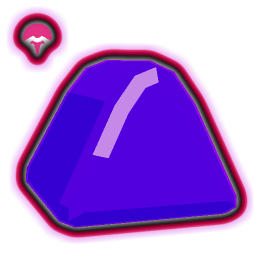
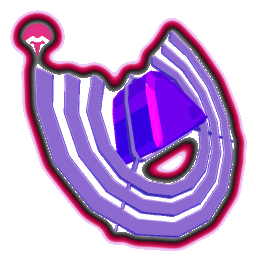
Prep for update release: 3.5.0

diff --git a/TinkersSatchel.cs b/TinkersSatchel.cs
@@ -20,7 +20,7 @@ namespace ThinkInvisible.TinkersSatchel {
     [R2APISubmoduleDependency(nameof(ItemAPI), nameof(LanguageAPI), nameof(PrefabAPI), nameof(RecalculateStatsAPI), nameof(DirectorAPI), nameof(DeployableAPI), nameof(DamageAPI))]
     [NetworkCompatibility(CompatibilityLevel.EveryoneMustHaveMod, VersionStrictness.EveryoneNeedSameModVersion)]
     public class TinkersSatchelPlugin:BaseUnityPlugin {
-        public const string ModVer = "3.4.1";
+        public const string ModVer = "3.5.0";
         public const string ModName = "TinkersSatchel";
         public const string ModGuid = "com.ThinkInvisible.TinkersSatchel";
 

diff --git a/ModMeta/README.md b/ModMeta/README.md
@@ -104,7 +104,7 @@ Short summaries are provided below. For a full description of each item, see: ht
 		<tr>
 			<td><img src="https://github.com/ThinkInvis/RoR2-TinkersSatchel/blob/master/ModMeta/Assets/goldenGearIcon.png?raw=true" width=128></td>
 			<td>
-				<b>Armor Crystal</b><br>
+				<b>Chestplate</b><br>
 				Gain armor by hoarding money.
 			</td>
 		</tr>
@@ -332,8 +332,8 @@ Short summaries are provided below. For a full description of each item, see: ht
 		<tr>
 			<td><img src="https://github.com/ThinkInvis/RoR2-TinkersSatchel/blob/master/ModMeta/Assets/orderedArmorIcon.png?raw=true" width=128></td>
 			<td>
-				<b>Armor Prism</b> (T2)<br>
-				Gain massive armor by focusing your item build. Corrupts all Armor Crystals.
+				<b>Lens of Order</b> (T2)<br>
+				Gain massive armor by focusing your item build. Corrupts all Chestplates.
 			</td>
 		</tr>
 		<tr>
@@ -524,8 +524,8 @@ Short summaries are provided below. For a full description of each item, see: ht
 - ItemDisplayRule incompleteness:
 	- A few TkSat items have absent or incomplete ItemDisplayRules.
 	- Non-Survivor vanilla characters have no display rules for TkSat items.
-	- TkSat drones have no ItemDisplayRules for important vanilla items (Spare Drone Parts).
 - Most items need some effects & model polish in general.
+	- Chestplate texture has unintentional specularity in some areas.
 	- Broken drones are missing smoke/sparks effects.
 	- Cardboard Box alternate icon has not been updated to vanilla style like other icons as of v2.2.3.
 - Some class-specific item behaviors on Go-Faster Stripes are missing or placeholders.
@@ -536,6 +536,22 @@ Short summaries are provided below. For a full description of each item, see: ht
 
 The 5 latest updates are listed below. For a full changelog, see: https://github.com/ThinkInvis/RoR2-TinkersSatchel/blob/master/changelog.md
 (🌧: Involves an accepted GitHub Pull Request from the community. Thanks for your help!)
+
+**3.5.0**
+
+- Item Drones now support holding more than 1 item type.
+	- `public ItemIndex ItemDrone.ItemDroneWardPersist.index` is now obsolete and will have no effect.
+	- `public int ItemDrone.ItemDroneWardPersist.count` is now obsolete and will have no effect.
+	- Added `public int[] ItemDrone.ItemDroneWardPersist stacks {get; private set;}` (populated via `ItemCatalog.RequestItemStackArray()`).
+	- Added `public void ItemDrone.ItemDroneWardPersist.AddItems(ItemIndex ind, int count)`.
+- Added Spare Drone Parts IDRs to Item Drone and Bulwark Drone.
+- Item Drone now supports the Dronemeld mod (requires Dronemeld 1.3.0 or later).
+- Fixed bad armature/animation setup (extraneous 90-degree rotations) on Item Drone.
+- Renamed Armor Crystal to Chestplate and gave it a new model and lore.
+- Renamed Armor Prism to Lens of Order and improved its model.
+- Character models are now set to read/write enabled (stops some rare console spam).
+- For developers: NuGet config is now localized (building project no longer requires end-user modification of system or directory NuGet config).
+- Updated TILER2 dependency to 7.3.2.
 
 **3.4.1**
 
@@ -567,29 +583,3 @@ The 5 latest updates are listed below. For a full changelog, see: https://github
 - Updated TILER2 dependency to 7.2.1.
 	- Fixes Item Drone name modification showing item type only appearing for the host in multiplayer.
 	- Fixes a mostly harmless NRE after using Quantum Recombobulator.
-
-**3.3.0**
-
-- New content:
-	- Items:
-		- Fudge Dice (T2): Every 20 seconds, automatically succeed on a random roll.
-		- Celestial Gambit (Lunar): Gain an extra item from the teleporter... BUT the teleporter zone weakens you (50% reduced healing per stack, no jumping). <small>Strawb!!</small>
-		- Lemurian's Claw (Lunar Equipment): Give a target item drop to ALL characters. Enemies receive multiple, 1 per ally.
-		- Scavenger's Rucksack (Boss): Hold one extra equipment. Stand still to cycle through equipment slots. Rarely replaces Scavenger backpack drops.
-	- Artifacts:
-		- Artifact of Reconfiguration: Start with 2 Scavenger's Rucksacks. All equipment has no cooldown and is consumed on use. Spawns a lot of extra equipment every stage.
-- Balance pass:
-	- Bulwark Drone:
-		- Bulwark Drone was severely overperforming in an attempt to justify its high cost and lack of attacks, especially when multiple were obtained. Its taunt mechanic was also unintentionally inconsistent.
-		- Now spawns with one stack of Razorwire. <small>Those shields are pointy!</small>
-		- Reduced taunt chance per enemy (50% --> 25%).
-		- Now selects a consistent fraction of valid targets to taunt, instead of rolling a chance for each target.
-		- Reduced base stats (health 400 --> 275, shield 60 --> 25, health regen 5 --> 2, armor 20 --> 0, move speed 20 --> 15).
-		- Increased hitbox size.
-		- Reduced base cost ($80 --> $60).
-	- Item Drone can no longer accept Lunar nor Void items by default. <small>You are now <i>slightly</i> safer from your friends.</small>
-- Item Drone item blacklist is now configurable and also includes a tier blacklist.
-- Made Bulwark Drone compatible with the Dronemeld mod.
-- Kintsugi:
-	- Fixed double percentage signs in description.
-	- Fixed missing unlockable icon.

diff --git a/ContentSummary.md b/ContentSummary.md
@@ -116,7 +116,7 @@
 		<tr>
 			<td><img src="https://github.com/ThinkInvis/RoR2-TinkersSatchel/blob/master/ModMeta/Assets/goldenGearIcon.png?raw=true" width=256></td>
 			<td>
-				<b>Armor Crystal</b><br>
+				<b>Chestplate</b><br>
 				<details>
 					<summary>Gain armor by hoarding money.</summary>
 					<small>Gain armor based on your currently held money. The first point of armor costs $10 (-10% per stack, exponential; scales with difficulty); each subsequent point costs 7.5% more than the last.</small>
@@ -531,10 +531,10 @@
 		<tr>
 			<td><img src="https://github.com/ThinkInvis/RoR2-TinkersSatchel/blob/master/ModMeta/Assets/orderedArmorIcon.png?raw=true" width=256></td>
 			<td>
-				<b>Armor Prism</b> (T2)<br>
+				<b>Lens of Order</b> (T2)<br>
 				<details>
-				<summary>Gain massive armor by focusing your item build. Corrupts all Armor Crystals.</summary>
-				<small>Gain armor based on your currently held types of item (fewer is better). Having only Armor Prisms gives 500 armor (+25% per stack, inverse-exponential); each subsequent item type reduces armor by 12.5%. Corrupts all Armor Crystals.</small>
+				<summary>Gain massive armor by focusing your item build. Corrupts all Chestplates.</summary>
+				<small>Gain armor based on your currently held types of item (fewer is better). Having only Lenses of Order gives 500 armor (+25% per stack, inverse-exponential); each subsequent item type reduces armor by 12.5%. Corrupts all Chestplates.</small>
 				</details>
 			</td>
 			<td><ul>

diff --git a/changelog.md b/changelog.md
@@ -2,6 +2,22 @@
 
 (🌧: Involves an accepted GitHub Pull Request from the community. Thanks for your help!)
 
+**3.5.0**
+
+- Item Drones now support holding more than 1 item type.
+	- `public ItemIndex ItemDrone.ItemDroneWardPersist.index` is now obsolete and will have no effect.
+	- `public int ItemDrone.ItemDroneWardPersist.count` is now obsolete and will have no effect.
+	- Added `public int[] ItemDrone.ItemDroneWardPersist stacks {get; private set;}` (populated via `ItemCatalog.RequestItemStackArray()`).
+	- Added `public void ItemDrone.ItemDroneWardPersist.AddItems(ItemIndex ind, int count)`.
+- Added Spare Drone Parts IDRs to Item Drone and Bulwark Drone.
+- Item Drone now supports the Dronemeld mod (requires Dronemeld 1.3.0 or later).
+- Fixed bad armature/animation setup (extraneous 90-degree rotations) on Item Drone.
+- Renamed Armor Crystal to Chestplate and gave it a new model and lore.
+- Renamed Armor Prism to Lens of Order and improved its model.
+- Character models are now set to read/write enabled (stops some rare console spam).
+- For developers: NuGet config is now localized (building project no longer requires end-user modification of system or directory NuGet config).
+- Updated TILER2 dependency to 7.3.2.
+
 **3.4.1**
 
 - Migrated a few language tokens missed in the first pass (skills, CommonCode). <small>Slippery little devils...</small>
